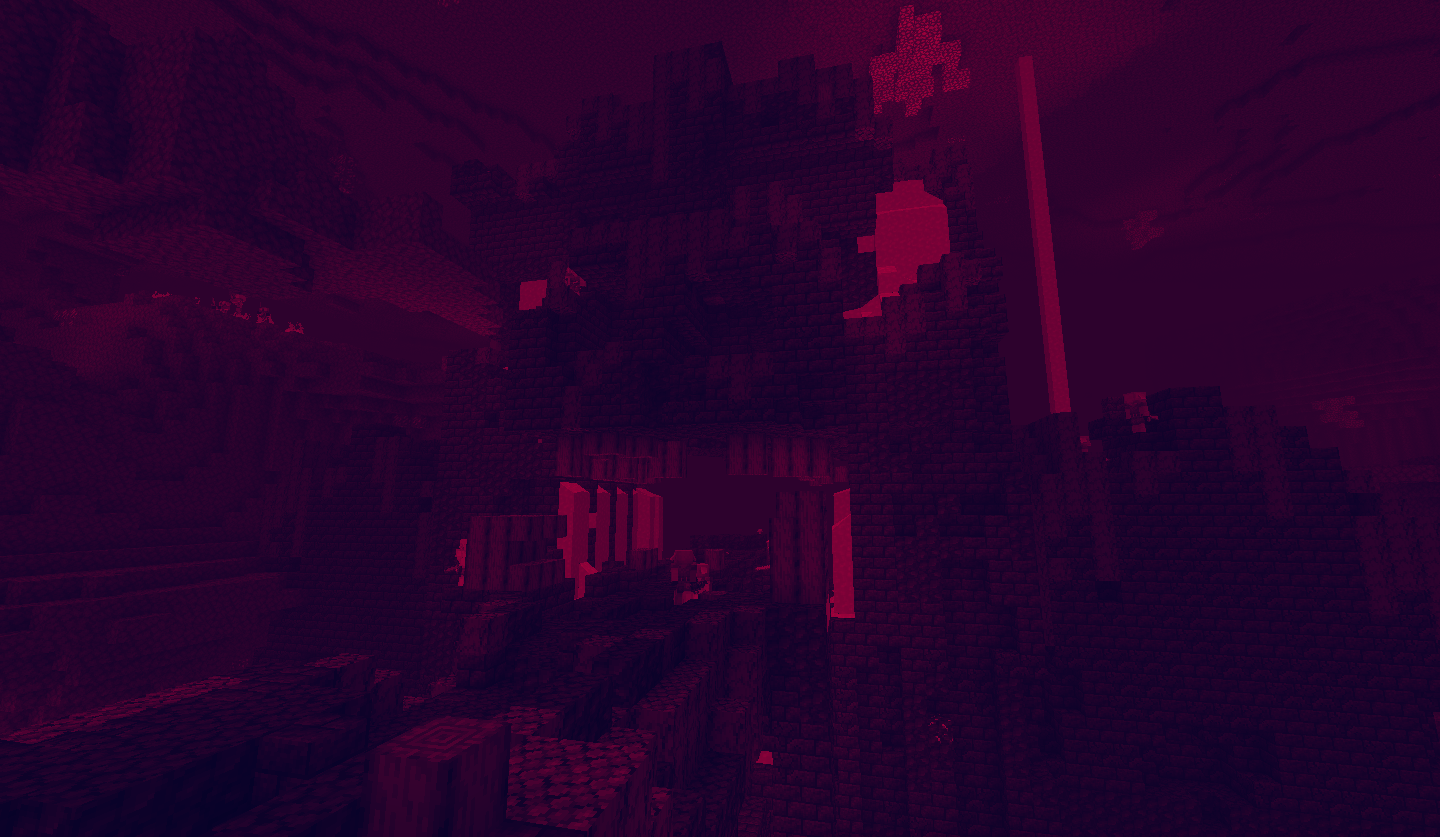
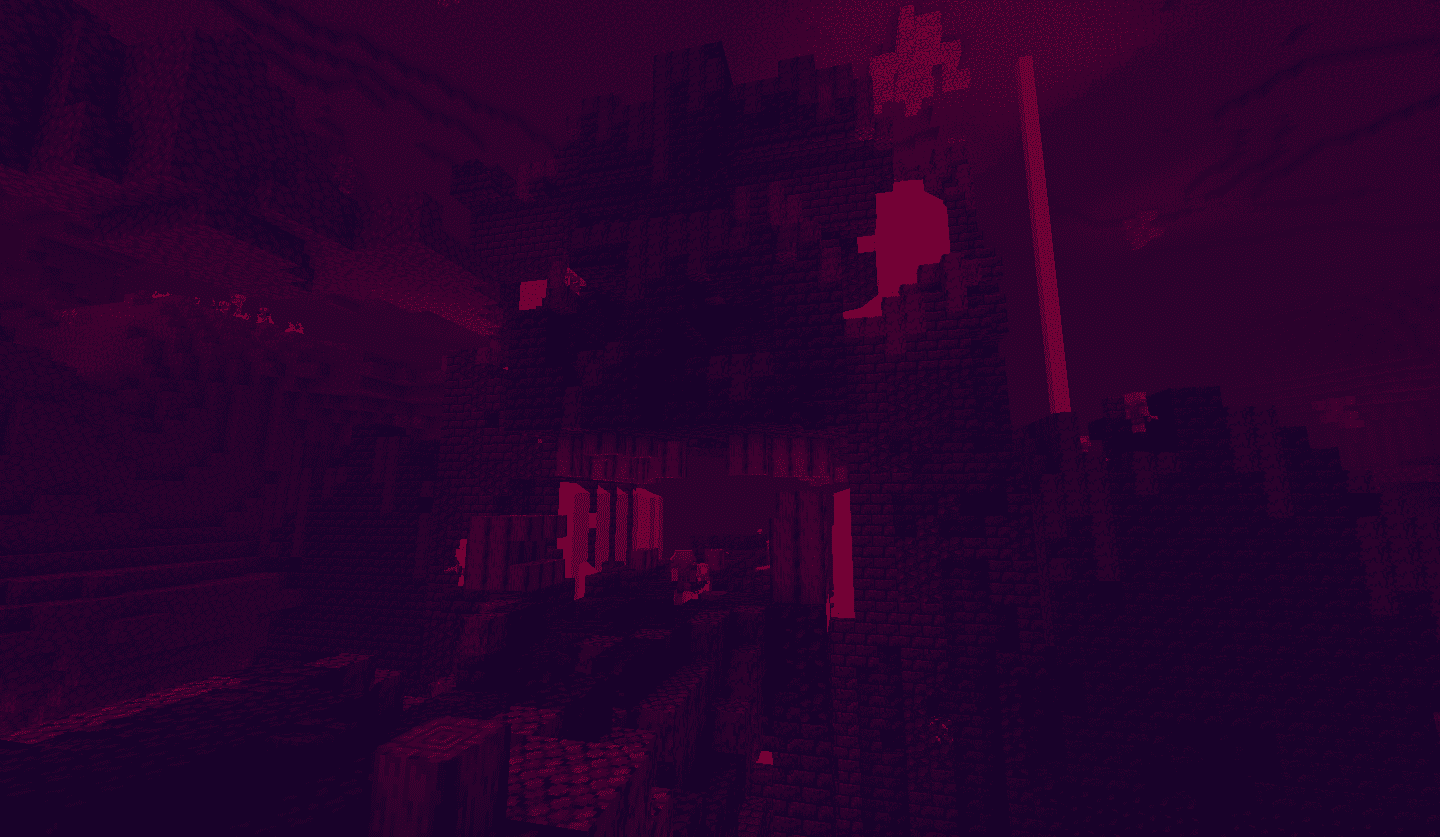
Site updated: 2020-08-11 23:35:52

diff --git a/sw.js b/sw.js
@@ -10,7 +10,7 @@
 
 'use strict';
 
-var precacheConfig = [["/2020/03/27/1-15-2-Minecraft数据包-玩家头颅ID显示/index.html","f44932b5e065fbf169077e43fa62c240"],["/2020/03/27/Hello-World-Again/index.html","a38df0a86bfb1ae46881765788fd38e0"],["/2020/03/27/hello-world/index.html","e54ad965119e1c0045c15e1bd1e637ca"],["/2020/03/28/1-15-2-Minecraft数据包-搬箱器/index.html","b539458b02e273566263c25744645a13"],["/2020/04/02/尝试做一张cover/index.html","9154b2205720769618683a016edf8392"],["/2020/04/09/同步blog到gitee/index.html","6a96d79579306420a92aab1fdf383509"],["/2020/04/24/1-15-2-Minecraft数据包-原版箱子菜单/index.html","6d658981e924f9fdd0d347754832e6dc"],["/2020/04/28/换个图床/index.html","e14f399f7c8f2261a5e861cf9d4be91a"],["/2020/08/07/1-15-2-Minecraft数据包-蓄力靴/index.html","36b6eba793494ccbbbb7f204314cf551"],["/404.html","0765fb2a6ded8f8ded3db5886c9d545e"],["/about/index.html","36ccac0a824aa4618796ab4a307aff79"],["/archives/2020/03/index.html","bc475d399e0f9fcb0662fea4d7182701"],["/archives/2020/04/index.html","fa7aea18cce07e94ea68f26c0b7fbd6c"],["/archives/2020/08/index.html","a2fc1cfca243a068d3703bd41f8b0821"],["/archives/2020/index.html","f2adeb5aa735d97f2bb6d7d6c4a83433"],["/archives/index.html","44f683c8d22a8b9f76ec104a2623050c"],["/automation/index.html","f8e4ed62dc53900a1c84813d64a8a101"],["/dist/main.css","602bc452ca02906e7a7265723d58e3c8"],["/dist/main.js","85fd09524b02a44d64098484dd1b8bcf"],["/images/AR.png","e02650b2170e49c66dbfe9b72f738434"],["/images/AR.svg","3a3c5c9d8d34c951dde7883ae5b046cc"],["/images/automation.png","c24cbc52958e8e18f024586c3d7bc891"],["/images/ayer-side.svg","eb1b57d15f60c8240e20903aab419ace"],["/images/ayer.png","fc7c172cafe0efa51ad5b16adb477e0c"],["/images/ayer.svg","8ac7a1cc61e2fc8cdf36a465e130cf80"],["/images/carry.png","c7887b9a777c9badc75722d9bec1846b"],["/images/chestmenu (1).png","d8715a9cd0096ce7c3d1ecf870be4085"],["/images/chestmenu (2).png","0044b5dd0b266896141606e4cdd24110"],["/images/chestmenu.png","32708a8bc9651f9bcd6951ef063c4f64"],["/images/cover1.jpg","81db5164c09c53ac17152c071578111d"],["/images/cover11.png","99eabe02008bdaf8a9a6d8189bcf8bc8"],["/images/cover12.png","730e0dd329f538424f2487e69769809a"],["/images/cover13.png","c6c662ee11e0747bc61c9a3b1b5cfa11"],["/images/cover17.png","17bb00a3c3702bceab5df49878bf08b8"],["/images/cover18.png","b61f4c58188350e3d53154231a00e063"],["/images/cover19.png","746b22ebf28c78873d2274c066ddccbf"],["/images/cover2.jpg","135c931e786d1e1fe59ab1343cf910fa"],["/images/cover3.jpg","7c084b950a063b068e63c683ce010108"],["/images/cover4.jpg","cb0e1f1d738c3f5ae35c8b88417dc489"],["/images/cover5.jpg","b576b03ae35fa56bb36d260a6263a356"],["/images/cover6.jpg","82c16fcd2dc3762300ab0be52a01668c"],["/images/cover7.jpg","455a2c75e667e3754c29d217c932adf0"],["/images/forkme.png","8543596f3ec93d014f813015499c524e"],["/images/forrestgump.png","41a584d82fdc64943ee8c6ee17c32f26"],["/images/giteeload.png","7b46c73366d0ab3dc11a4f5a12eb2bb5"],["/images/githubload.png","bb7d148246d0641152da67054259f792"],["/images/jumpboots.png","53003e1b50ec941987a84e22f4a45b4c"],["/images/playerhead (1).png","e00d563485026f4adcac4b872fa4574a"],["/images/playerhead (2).png","8a157ffdbd91847a08c6f6192f9edab2"],["/images/playerhead(3).png","75a3d1d48c6ba385c491aa3489a85cb6"],["/index.html","9c482e4bdfe96da27c7e37cef6075c1c"],["/js/busuanzi-2.3.pure.min.js","4c9a89414b97bb2053ccc7cb83c83b6e"],["/js/jquery-2.0.3.min.js","7197c07dfce675ee5a220c3bad0dedd4"],["/js/lazyload.min.js","16b486c05843a4dc4e9cd4295ca699c2"],["/js/pace.min.js","248f37358dd94120dc84da2938445449"],["/js/search.js","e3e624b549ce5c7c7498a6f95c34692e"],["/js/tocbot.min.js","c4536ea3bf2e39818cfd27b73bfe397f"],["/sw-register.js","a01bf1ce5d5cc465fc21861c1ab48a70"],["/tags/commands/index.html","b1c111cbd22f90400f7176befcc6de38"],["/tags/index.html","871e75b8a4008c004b01ca5a135d3e21"],["/tags/strange/index.html","e12e056afcdfb9a37c93680ac3474434"]];
+var precacheConfig = [["/2020/03/27/1-15-2-Minecraft数据包-玩家头颅ID显示/index.html","f44932b5e065fbf169077e43fa62c240"],["/2020/03/27/Hello-World-Again/index.html","a38df0a86bfb1ae46881765788fd38e0"],["/2020/03/27/hello-world/index.html","e54ad965119e1c0045c15e1bd1e637ca"],["/2020/03/28/1-15-2-Minecraft数据包-搬箱器/index.html","b539458b02e273566263c25744645a13"],["/2020/04/02/尝试做一张cover/index.html","5c708c9342d766a46ade43048a98530f"],["/2020/04/09/同步blog到gitee/index.html","6a96d79579306420a92aab1fdf383509"],["/2020/04/24/1-15-2-Minecraft数据包-原版箱子菜单/index.html","6d658981e924f9fdd0d347754832e6dc"],["/2020/04/28/换个图床/index.html","e14f399f7c8f2261a5e861cf9d4be91a"],["/2020/08/07/1-15-2-Minecraft数据包-蓄力靴/index.html","36b6eba793494ccbbbb7f204314cf551"],["/404.html","0765fb2a6ded8f8ded3db5886c9d545e"],["/about/index.html","36ccac0a824aa4618796ab4a307aff79"],["/archives/2020/03/index.html","bc475d399e0f9fcb0662fea4d7182701"],["/archives/2020/04/index.html","fa7aea18cce07e94ea68f26c0b7fbd6c"],["/archives/2020/08/index.html","a2fc1cfca243a068d3703bd41f8b0821"],["/archives/2020/index.html","f2adeb5aa735d97f2bb6d7d6c4a83433"],["/archives/index.html","44f683c8d22a8b9f76ec104a2623050c"],["/automation/index.html","f8e4ed62dc53900a1c84813d64a8a101"],["/dist/main.css","602bc452ca02906e7a7265723d58e3c8"],["/dist/main.js","85fd09524b02a44d64098484dd1b8bcf"],["/images/AR.png","e02650b2170e49c66dbfe9b72f738434"],["/images/AR.svg","3a3c5c9d8d34c951dde7883ae5b046cc"],["/images/automation.png","c24cbc52958e8e18f024586c3d7bc891"],["/images/ayer-side.svg","eb1b57d15f60c8240e20903aab419ace"],["/images/ayer.png","fc7c172cafe0efa51ad5b16adb477e0c"],["/images/ayer.svg","8ac7a1cc61e2fc8cdf36a465e130cf80"],["/images/carry.png","c7887b9a777c9badc75722d9bec1846b"],["/images/chestmenu (1).png","d8715a9cd0096ce7c3d1ecf870be4085"],["/images/chestmenu (2).png","0044b5dd0b266896141606e4cdd24110"],["/images/chestmenu.png","32708a8bc9651f9bcd6951ef063c4f64"],["/images/cover1.jpg","81db5164c09c53ac17152c071578111d"],["/images/cover11.png","99eabe02008bdaf8a9a6d8189bcf8bc8"],["/images/cover12.png","730e0dd329f538424f2487e69769809a"],["/images/cover13.png","c6c662ee11e0747bc61c9a3b1b5cfa11"],["/images/cover17.png","2d009b7c702a17f20ac5af14c8c31a2c"],["/images/cover18.png","fa063ca2829ff5a50845e02505aaf188"],["/images/cover19.png","94a23aeb51e63e0e70fa3da1e6238d58"],["/images/cover2.jpg","135c931e786d1e1fe59ab1343cf910fa"],["/images/cover3.jpg","7c084b950a063b068e63c683ce010108"],["/images/cover4.jpg","cb0e1f1d738c3f5ae35c8b88417dc489"],["/images/cover5.jpg","b576b03ae35fa56bb36d260a6263a356"],["/images/cover6.jpg","82c16fcd2dc3762300ab0be52a01668c"],["/images/cover7.jpg","455a2c75e667e3754c29d217c932adf0"],["/images/forkme.png","8543596f3ec93d014f813015499c524e"],["/images/forrestgump.png","41a584d82fdc64943ee8c6ee17c32f26"],["/images/giteeload.png","7b46c73366d0ab3dc11a4f5a12eb2bb5"],["/images/githubload.png","bb7d148246d0641152da67054259f792"],["/images/jumpboots.png","53003e1b50ec941987a84e22f4a45b4c"],["/images/playerhead (1).png","e00d563485026f4adcac4b872fa4574a"],["/images/playerhead (2).png","8a157ffdbd91847a08c6f6192f9edab2"],["/images/playerhead(3).png","75a3d1d48c6ba385c491aa3489a85cb6"],["/index.html","327c6282657c3bb62e4994f3e7c80cd8"],["/js/busuanzi-2.3.pure.min.js","4c9a89414b97bb2053ccc7cb83c83b6e"],["/js/jquery-2.0.3.min.js","7197c07dfce675ee5a220c3bad0dedd4"],["/js/lazyload.min.js","16b486c05843a4dc4e9cd4295ca699c2"],["/js/pace.min.js","248f37358dd94120dc84da2938445449"],["/js/search.js","e3e624b549ce5c7c7498a6f95c34692e"],["/js/tocbot.min.js","c4536ea3bf2e39818cfd27b73bfe397f"],["/sw-register.js","b43cf64c48d5680f42fbe156bc9c753c"],["/tags/commands/index.html","b1c111cbd22f90400f7176befcc6de38"],["/tags/index.html","871e75b8a4008c004b01ca5a135d3e21"],["/tags/strange/index.html","e12e056afcdfb9a37c93680ac3474434"]];
 var cacheName = 'sw-precache-v3--' + (self.registration ? self.registration.scope : '');
 var firstRegister = 1; // 默认1是首次安装SW， 0是SW更新
 

diff --git a/sw-register.js b/sw-register.js
@@ -1,1 +1,1 @@
-navigator.serviceWorker&&navigator.serviceWorker.register('/sw.js?v=20200811231806').then(function(){navigator.serviceWorker.addEventListener('message',function(a){if('sw.update'===a.data){let a=document.querySelector('meta[name=theme-color]'),b=document.createElement('div');a&&(a.content='#000'),b.innerHTML='<style>.app-refresh{background:#000;height:0;line-height:52px;overflow:hidden;position:fixed;top:0;left:0;right:0;z-index:10001;padding:0 18px;transition:all .3s ease;-webkit-transition:all .3s ease;-moz-transition:all .3s ease;-o-transition:all .3s ease;}.app-refresh-wrap{display:flex;color:#fff;font-size:15px;}.app-refresh-wrap label{flex:1;}.app-refresh-show{height:52px;}</style><div class="app-refresh" id="app-refresh"><div class="app-refresh-wrap" onclick="location.reload()"><label>\u5DF2\u66F4\u65B0\u6700\u65B0\u7248\u672C</label><span>\u70B9\u51FB\u5237\u65B0</span></div></div>',document.body.appendChild(b),setTimeout(function(){document.getElementById('app-refresh').className+=' app-refresh-show'},16)}})});
+navigator.serviceWorker&&navigator.serviceWorker.register('/sw.js?v=20200811233453').then(function(){navigator.serviceWorker.addEventListener('message',function(a){if('sw.update'===a.data){let a=document.querySelector('meta[name=theme-color]'),b=document.createElement('div');a&&(a.content='#000'),b.innerHTML='<style>.app-refresh{background:#000;height:0;line-height:52px;overflow:hidden;position:fixed;top:0;left:0;right:0;z-index:10001;padding:0 18px;transition:all .3s ease;-webkit-transition:all .3s ease;-moz-transition:all .3s ease;-o-transition:all .3s ease;}.app-refresh-wrap{display:flex;color:#fff;font-size:15px;}.app-refresh-wrap label{flex:1;}.app-refresh-show{height:52px;}</style><div class="app-refresh" id="app-refresh"><div class="app-refresh-wrap" onclick="location.reload()"><label>\u5DF2\u66F4\u65B0\u6700\u65B0\u7248\u672C</label><span>\u70B9\u51FB\u5237\u65B0</span></div></div>',document.body.appendChild(b),setTimeout(function(){document.getElementById('app-refresh').className+=' app-refresh-show'},16)}})});

diff --git a/2020/04/02/尝试做一张cover/index.html b/2020/04/02/尝试做一张cover/index.html
@@ -63,7 +63,7 @@
         <span class="post-meta-item-icon">
             <i class="ri-quill-pen-line"></i>
             <span class="post-meta-item-text"> 字数统计:</span>
-            <span class="post-count">459字</span>
+            <span class="post-count">485字</span>
         </span>
     </span>
 
@@ -117,10 +117,10 @@
 <p><img src="https://ae01.alicdn.com/kf/Haa438cdb37514b6bb5f2c9415dd67fe2V.jpg" alt="cover"></p>
 <p>端午回来摸个鱼<br>这几张是从一张跑酷地图（Phantom Run 1.0.4）截来的，作者是我们喜闻乐见的iWacky<br>这几张相对于之前的几张来说，元素比较多，色调的比较奇怪，有种咖喱味(?)</p>
 <hr>
-<p>2020.8.11 更新<br><img src="https://i0.hdslb.com/bfs/album/82a17a3958658a42332fcea315b8f805751adde7.png" alt="cover"></p>
-<p><img src="https://i0.hdslb.com/bfs/album/e6dee070997a68df816255053d0ac7580a3bc6c7.png" alt="cover"></p>
-<p><img src="https://i0.hdslb.com/bfs/album/7d50cd102f93fcc23ede10411ec3a4479d3920c9.png" alt="cover"></p>
-<p>地狱更新的几张图，感觉不是很满意，因为地狱确实挺暗的，场景也比较复杂，不太好整。</p>
+<p>2020.8.11 更新<br><img src="https://ae01.alicdn.com/kf/Uc488ff99fe234d29bb9626d4be32efddF.jpg" alt="cover"></p>
+<p><img src="https://ae01.alicdn.com/kf/U9f6b0a121ce74706985324500bec38988.jpg" alt="cover"></p>
+<p><img src="https://ae01.alicdn.com/kf/U29e86891870745de9294ac2712bddad3F.jpg" alt="cover"></p>
+<p>地狱更新的几张图，感觉不是很满意，因为地狱确实挺暗的，场景也比较复杂，不太好整。<br>看了看还是选了那张最红的当做cover，因为比较符合地狱的风格。</p>
 
       
       <!-- reward -->

diff --git a/index.html b/index.html
@@ -39,7 +39,7 @@
     
   <div class="cover-frame">
     <div class="bg-box">
-      <img src="https://i0.hdslb.com/bfs/album/82a17a3958658a42332fcea315b8f805751adde7.png" alt="image frame" />
+      <img src="https://ae01.alicdn.com/kf/Uc488ff99fe234d29bb9626d4be32efddF.jpg" alt="image frame" />
     </div>
     <div class="cover-inner text-center text-white">
       <h1><a href="/">Argon_gas&#39; Minecraft Site</a></h1>
